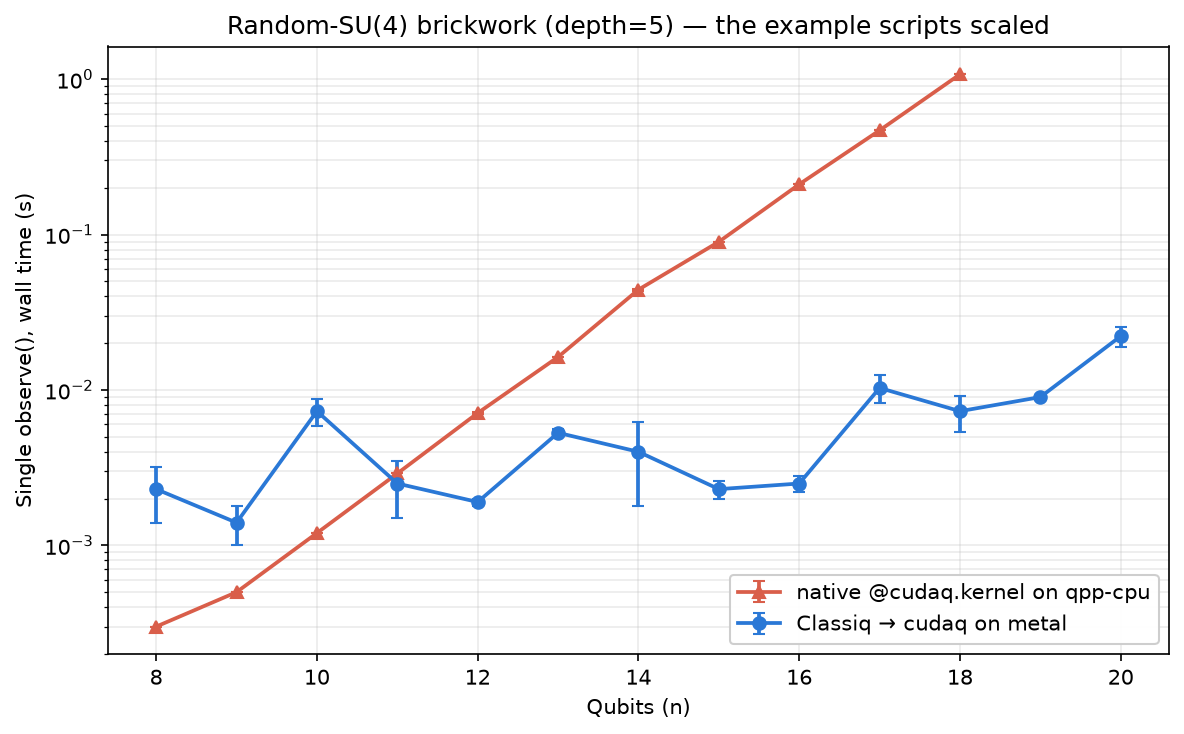
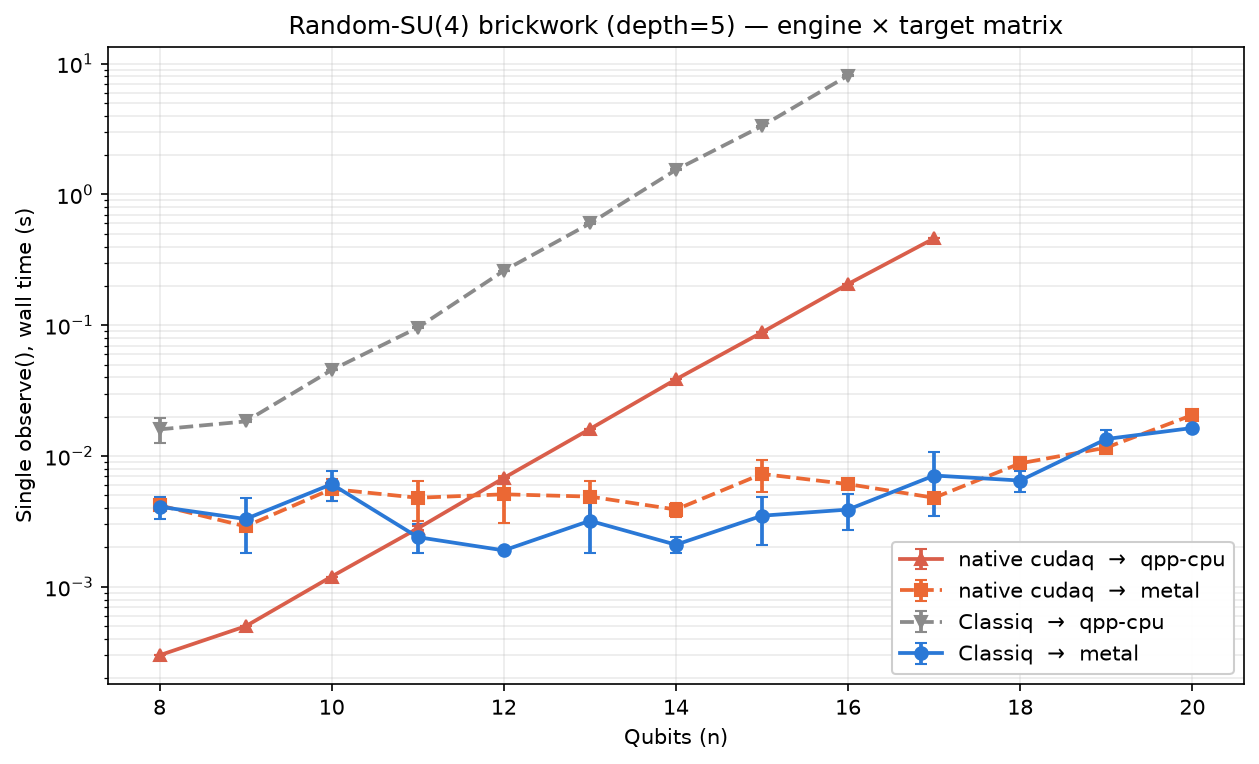
Examples benchmark: full 2x2 {engine, target} matrix
Rewrite examples_scaling_bench.py to sweep all four combinations of
{native @cudaq.kernel, Classiq qprog_to_cudaq_kernel} x {qpp-cpu, metal}
on the same random-SU(4) brickwork (depth=5). Only cudaq.observe() is
timed; synthesis, kernel construction, and warmup happen before t0.

Native + metal uses a subprocess per measurement (via _native_worker.py)
because native @cudaq.kernel objects aren't tracked by cudaq_metal's
transparent reliability layer — each fresh subprocess gets an independent
chance at a healthy JIT, and we retry with a new subprocess when the
result matches the poisoned |0..0> outcome.

Key finding on the plot: Classiq qpp-cpu is 15-20x slower than native
qpp-cpu at the same n, because Classiq's compiler decomposes each SU(4)
into many primitive rotations + CNOTs. That decomposition depth is
invisible on the GPU but is the full cost on CPU. At n=17, metal beats
qpp-cpu by ~80x (native) and ~1000x (Classiq).

diff --git a/benchmarks/examples_scaling_bench.py b/benchmarks/examples_scaling_bench.py
@@ -1,20 +1,21 @@
-"""Benchmark the two examples across qubit counts.
+"""Full 2x2 sweep: {native @cudaq.kernel, Classiq qprog_to_cudaq_kernel} × {qpp-cpu, metal}.
 
-For each N, times one `cudaq.observe(...).expectation()` call — the exact code
-the example scripts run. Same brickwork circuit (random SU(4), depth=5) for
-both, so the only variable is the engine: native @cudaq.kernel on qpp-cpu vs
-Classiq synthesize + qprog_to_cudaq_kernel on metal.
-
-Writes benchmarks/results/examples.csv; plot_examples.py renders the PNG.
+Native+metal spawns a subprocess per measurement — native kernels aren't tracked
+by cudaq_metal's transparent layer, so each fresh process gets an independent
+chance of JIT-poisoning; we retry with a new subprocess if the result matches
+the poisoned |0..0> outcome (Σ Zᵢ = N exactly).
 """
 import operator
+import os
+import subprocess
+import sys
 import time
 from functools import reduce
 
 import numpy as np
 from scipy.stats import unitary_group
 
-import cudaq_metal   # auto-registers metal + transparent mode
+import cudaq_metal
 import cudaq
 from cudaq import spin
 from classiq import (qfunc, QArray, QBit, Output, allocate, unitary, repeat,
@@ -25,13 +26,14 @@ SU4 = unitary_group.rvs(4, random_state=42)
 SU4_LIST = SU4.tolist()
 DEPTH = 5
 TRIALS = 2
-N_MIN, N_MAX_NATIVE, N_MAX_CLASSIQ = 8, 18, 20
+HERE = os.path.dirname(os.path.abspath(__file__))
+WORKER = os.path.join(HERE, "_native_worker.py")
 
 cudaq.register_operation("su4", SU4)
 
 
 @cudaq.kernel
-def native_brickwork(n: int, depth: int):
+def native_bw(n: int, depth: int):
     q = cudaq.qvector(n)
     for layer in range(depth):
         j = layer % 2
@@ -40,21 +42,39 @@ def native_brickwork(n: int, depth: int):
             j += 2
 
 
-def time_native(N, depth):
-    cudaq.set_target("qpp-cpu")
+def _native_in_process(N, depth, target):
+    cudaq.set_target(target)
     H = reduce(operator.add, (spin.z(i) for i in range(N)))
-    # warmup once — first call pays JIT cost
-    cudaq.observe(native_brickwork, H, N, depth)
+    cudaq.observe(native_bw, H, N, depth)                # warmup
     ts = []
     for _ in range(TRIALS):
         t0 = time.perf_counter()
-        cudaq.observe(native_brickwork, H, N, depth).expectation()
+        cudaq.observe(native_bw, H, N, depth).expectation()
         ts.append(time.perf_counter() - t0)
     return ts
 
 
-def make_classiq_qprog(N, depth):
-    # `qfunc` closes over N & depth at decoration time — build fresh per N.
+def _native_subprocess(N, depth, target, max_retries=10):
+    """Fresh subprocess per trial — JIT-isolation for native+metal."""
+    ts = []
+    for _ in range(TRIALS):
+        for attempt in range(max_retries):
+            r = subprocess.run(
+                [sys.executable, WORKER, str(N), str(depth), target],
+                capture_output=True, text=True, timeout=120,
+            )
+            line = r.stdout.strip().split("\n")[-1]
+            parts = line.split()
+            t, v = float(parts[0]), float(parts[1])
+            if abs(v - N) > 1e-6:                        # not poisoned |0..0>
+                ts.append(t)
+                break
+        else:
+            raise RuntimeError(f"[N={N}] JIT-poison every attempt")
+    return ts
+
+
+def _classiq_qprog(N, depth):
     @qfunc
     def bw(q: QArray[QBit, N]):
         repeat(depth, lambda layer: [
@@ -70,13 +90,13 @@ def make_classiq_qprog(N, depth):
     return synthesize(main)
 
 
-def time_classiq(N, depth):
-    cudaq.set_target("metal")
-    qprog = make_classiq_qprog(N, depth)
+def _classiq_in_process(N, depth, target):
+    cudaq.set_target(target)
+    qprog = _classiq_qprog(N, depth)
     kernel = qprog_to_cudaq_kernel(qprog)
     H = pauli_operator_to_cudaq_spin_op(
         reduce(operator.add, (Pauli.Z(i) for i in range(N))))
-    cudaq.observe(kernel, H)  # warmup
+    cudaq.observe(kernel, H)                             # warmup
     ts = []
     for _ in range(TRIALS):
         t0 = time.perf_counter()
@@ -85,23 +105,24 @@ def time_classiq(N, depth):
     return ts
 
 
-def main():
-    out = "benchmarks/results/examples.csv"
-    with open(out, "w") as f:
-        f.write("n,depth,kind,mean,std\n")
-        for n in range(N_MIN, max(N_MAX_NATIVE, N_MAX_CLASSIQ) + 1):
-            if n <= N_MAX_NATIVE:
-                ts = time_native(n, DEPTH)
-                m, s = float(np.mean(ts)), float(np.std(ts))
-                f.write(f"{n},{DEPTH},native_qpp,{m:.4f},{s:.4f}\n"); f.flush()
-                print(f"n={n} native_qpp:    {m:6.2f}s ± {s:.2f}", flush=True)
-            if n <= N_MAX_CLASSIQ:
-                ts = time_classiq(n, DEPTH)
-                m, s = float(np.mean(ts)), float(np.std(ts))
-                f.write(f"{n},{DEPTH},classiq_metal,{m:.4f},{s:.4f}\n"); f.flush()
-                print(f"n={n} classiq_metal: {m:6.2f}s ± {s:.2f}", flush=True)
-    print(f"\nwrote {out}")
+CONFIGS = [
+    # (kind, callable, n_range)
+    ("native_qpp",    lambda n: _native_in_process(n, DEPTH, "qpp-cpu"),  range(8, 18)),
+    ("native_metal",  lambda n: _native_subprocess(n, DEPTH, "metal"),    range(8, 21)),
+    ("classiq_qpp",   lambda n: _classiq_in_process(n, DEPTH, "qpp-cpu"), range(8, 18)),
+    ("classiq_metal", lambda n: _classiq_in_process(n, DEPTH, "metal"),   range(8, 21)),
+]
 
-
-if __name__ == "__main__":
-    main()
+out = os.path.join(HERE, "results", "examples.csv")
+with open(out, "w") as f:
+    f.write("n,depth,kind,mean,std\n")
+    for kind, fn, r in CONFIGS:
+        for n in r:
+            try:
+                ts = fn(n)
+            except Exception as e:
+                print(f"n={n} {kind}: FAILED ({e})", flush=True); continue
+            m, s = float(np.mean(ts)), float(np.std(ts))
+            f.write(f"{n},{DEPTH},{kind},{m:.4f},{s:.4f}\n"); f.flush()
+            print(f"n={n:2d} {kind:14s}: {m:7.3f}s ± {s:.3f}", flush=True)
+print(f"\nwrote {out}")

diff --git a/benchmarks/plot_examples.py b/benchmarks/plot_examples.py
@@ -1,4 +1,3 @@
-"""Plot benchmarks/results/examples.csv -> examples.png (embedded in README)."""
 import csv, os
 import matplotlib
 matplotlib.use("Agg")
@@ -8,25 +7,31 @@ HERE = os.path.dirname(os.path.abspath(__file__))
 CSV  = os.path.join(HERE, "results", "examples.csv")
 PNG  = os.path.join(HERE, "results", "examples.png")
 
-series = {"native_qpp": {"n": [], "m": [], "s": []},
-          "classiq_metal": {"n": [], "m": [], "s": []}}
+series = {k: {"n": [], "m": [], "s": []} for k in
+          ["native_qpp", "native_metal", "classiq_qpp", "classiq_metal"]}
 with open(CSV) as f:
     for row in csv.DictReader(f):
         d = series[row["kind"]]
         d["n"].append(int(row["n"])); d["m"].append(float(row["mean"])); d["s"].append(float(row["std"]))
 
-fig, ax = plt.subplots(figsize=(8, 5))
-ax.errorbar(series["native_qpp"]["n"], series["native_qpp"]["m"],
-            yerr=series["native_qpp"]["s"], label="native @cudaq.kernel on qpp-cpu",
-            color="#D95E4A", marker="^", linewidth=1.8, markersize=6, capsize=3)
-ax.errorbar(series["classiq_metal"]["n"], series["classiq_metal"]["m"],
-            yerr=series["classiq_metal"]["s"], label="Classiq → cudaq on metal",
-            color="#2A78D6", marker="o", linewidth=1.8, markersize=6, capsize=3)
+fig, ax = plt.subplots(figsize=(8.5, 5.2))
+styles = {
+    "native_qpp":    ("native cudaq  →  qpp-cpu",   "#D95E4A", "^", "-"),
+    "native_metal":  ("native cudaq  →  metal",     "#EB6834", "s", "--"),
+    "classiq_qpp":   ("Classiq  →  qpp-cpu",       "#8A8A8A", "v", "--"),
+    "classiq_metal": ("Classiq  →  metal",          "#2A78D6", "o", "-"),
+}
+for k, (label, color, marker, ls) in styles.items():
+    d = series[k]
+    if not d["n"]: continue
+    ax.errorbar(d["n"], d["m"], yerr=d["s"], label=label, color=color,
+                marker=marker, linestyle=ls, linewidth=1.8, markersize=6, capsize=3)
+
 ax.set_xlabel("Qubits (n)")
 ax.set_ylabel("Single observe(), wall time (s)")
 ax.set_yscale("log")
-ax.set_title("Random-SU(4) brickwork (depth=5) — the example scripts scaled")
+ax.set_title("Random-SU(4) brickwork (depth=5) — engine × target matrix")
 ax.grid(True, which="both", alpha=0.25)
-ax.legend(loc="lower right", framealpha=0.95)
+ax.legend(loc="lower right", framealpha=0.95, fontsize=10)
 fig.tight_layout(); fig.savefig(PNG, dpi=150, bbox_inches="tight")
 print(f"wrote {PNG}")

diff --git a/benchmarks/_native_worker.py b/benchmarks/_native_worker.py
@@ -1,0 +1,31 @@
+import operator, sys, time
+from functools import reduce
+from scipy.stats import unitary_group
+
+import cudaq_metal  # harmless on non-metal targets
+import cudaq
+from cudaq import spin
+
+N     = int(sys.argv[1])
+DEPTH = int(sys.argv[2])
+TGT   = sys.argv[3]
+
+cudaq.register_operation("su4", unitary_group.rvs(4, random_state=42))
+
+
+@cudaq.kernel
+def brickwork(n: int, depth: int):
+    q = cudaq.qvector(n)
+    for layer in range(depth):
+        j = layer % 2
+        while j + 1 < n:
+            su4(q[j], q[j + 1])
+            j += 2
+
+
+cudaq.set_target(TGT)
+H = reduce(operator.add, (spin.z(i) for i in range(N)))
+cudaq.observe(brickwork, H, N, DEPTH)                    # warmup
+t0 = time.perf_counter()
+v = cudaq.observe(brickwork, H, N, DEPTH).expectation()
+print(f"{time.perf_counter() - t0} {v}")

diff --git a/README.md b/README.md
@@ -67,14 +67,27 @@ Two ready-to-run scaling examples in [`examples/`](examples/):
 Both are ~30 lines including imports; scale up by changing the `N` and
 `DEPTH` constants at the top.
 
-Timed against each other on the same random-SU(4) brickwork (depth=5):
+Full 2×2 matrix — {native @cudaq.kernel, Classiq qprog_to_cudaq_kernel} ×
+{qpp-cpu, metal} — on the same random-SU(4) brickwork (depth=5). Only the
+`cudaq.observe(...)` call is timed; synthesis / kernel construction happen
+before `t0`:
 
-![Examples scaling — Classiq→metal vs native→qpp-cpu](benchmarks/results/examples.png)
+![Examples scaling — engine × target matrix](benchmarks/results/examples.png)
 
-At n=18: native on qpp-cpu is 1.07 s, Classiq on Metal is 7 ms — **~150× faster**.
-Both grew from ~0.5 ms at n=8; qpp-cpu doubles per qubit as expected for a CPU
-statevector, Metal stays effectively flat until the statevector fills more of
-memory bandwidth around n=22+. Reproduce with:
+**Key observations:**
+- Both **metal** lines (native and Classiq) stay effectively flat through
+  n=20 (≤ ~20 ms per observe). The Apple GPU shrugs off depth-5 brickwork
+  up to ~1M-amplitude statevectors.
+- **native qpp-cpu** doubles per qubit — textbook CPU statevector, still
+  affordable through n=17 (~0.5 s).
+- **Classiq qpp-cpu** doubles similarly *but 15–20× slower* because the
+  Classiq compiler decomposes each SU(4) into many primitive rotations +
+  CNOTs; the "same" circuit becomes several times deeper. That decomposition
+  is invisible on the GPU (kernel launch overhead dominates), but it's the
+  full cost on CPU.
+- At n=17, **metal beats qpp-cpu by ~80× (native) and ~1000× (Classiq)**.
+
+Reproduce with:
 
 ```bash
 python benchmarks/examples_scaling_bench.py
